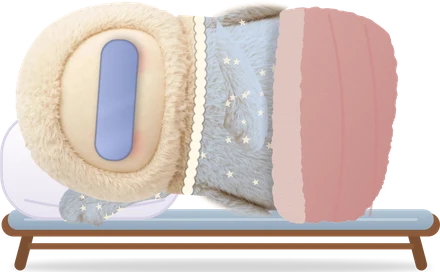
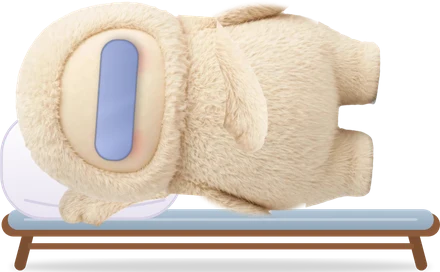
Sleeping Punchy: no pajamas, theme-coloured fuzzy blanket and z's
Claude-Session: https://claude.ai/code/session_015zikV9PqUBiyz3XPGeiexa

diff --git a/index.html b/index.html
@@ -346,7 +346,9 @@
   .pocketlink { text-decoration: none; background: var(--surface); color: var(--ink); border: 1px solid var(--line); border-radius: 999px; padding: 5px 12px; font-size: .78rem; font-weight: 700; opacity: 1; box-shadow: 0 2px 8px rgba(0,0,0,.12); z-index: 20; white-space: nowrap; }
   .punchysleep { position: fixed; display: block; z-index: 19; padding: 0; border: 0; background: none; cursor: pointer; min-height: 0; touch-action: manipulation; }
   .punchysleep img { position: absolute; inset: 0; width: 100%; height: 100%; display: block; pointer-events: none; -webkit-user-drag: none; }
-  .punchysleep .belly { transform-origin: 55% 100%; animation: snore 3.6s ease-in-out infinite; }
+  .punchysleep .belly { position: absolute; inset: 0; display: block; transform-origin: 55% 100%; animation: snore 3.6s ease-in-out infinite; }
+  .punchysleep .belly img { position: absolute; inset: 0; }
+  .punchysleep .blk { position: absolute; inset: 0; display: block; background-color: color-mix(in srgb, var(--accent) 50%, #fff); background-image: url(/assets/punchy-blanket.webp); background-size: 100% 100%; background-blend-mode: multiply; -webkit-mask-image: url(/assets/punchy-blanket.webp); mask-image: url(/assets/punchy-blanket.webp); -webkit-mask-size: 100% 100%; mask-size: 100% 100%; }
   @keyframes snore { 0%, 100% { transform: scale(1, 1); } 50% { transform: scale(1.025, 1.06); } }
   @media (prefers-reduced-motion: reduce) { .punchysleep .belly { animation: none; } }
   .zbubble { position: absolute; left: 6%; top: -22px; pointer-events: none; display: block; width: 46px; height: 30px; }
@@ -3825,7 +3827,7 @@ function plushSvg(k, label) { return '<svg viewBox="0 0 200 200" role="img" aria
     var el = punchy.el = punchyBuild(); document.body.appendChild(el); applyOutfit();
     punchy.link = h("button", { type: "button", class: "pocketlink noprint", text: "take a nap \uD83D\uDCA4", "data-testid": "punchy-pocket", onclick: function () { punchyPocket(true); showToast("Shh, Punchy is sleeping. Tap him to wake him.", function () { punchyPocket(false); }); } }); document.body.appendChild(punchy.link);
     punchy.sleeper = h("button", { type: "button", class: "punchysleep noprint", "data-testid": "punchy-restore", "aria-label": "Punchy is sleeping. Tap to wake him.", title: "Tap to wake Punchy", hidden: true, onclick: function () { punchyPocket(false); } });
-    punchy.sleeper.innerHTML = '<img class="sbase" src="/assets/punchy-sleep.webp" alt="" draggable="false"><img class="belly" src="/assets/punchy-belly.webp" alt="" draggable="false"><span class="zbubble" aria-hidden="true"><i>z</i><i>z</i><i>Z</i></span>'; document.body.appendChild(punchy.sleeper);
+    punchy.sleeper.innerHTML = '<img class="sbase" src="/assets/punchy-sleep.webp" alt="" draggable="false"><span class="belly"><img src="/assets/punchy-belly.webp" alt="" draggable="false"><span class="blk"></span></span><span class="zbubble" aria-hidden="true"><i>z</i><i>z</i><i>Z</i></span>'; document.body.appendChild(punchy.sleeper);
     var drag = null;
     el.addEventListener("pointerdown", function (e) { drag = { sx: e.clientX, sy: e.clientY, ox: el.offsetLeft, oy: el.offsetTop, moved: false }; try { el.setPointerCapture(e.pointerId); } catch (x) {} });
     el.addEventListener("pointermove", function (e) {
